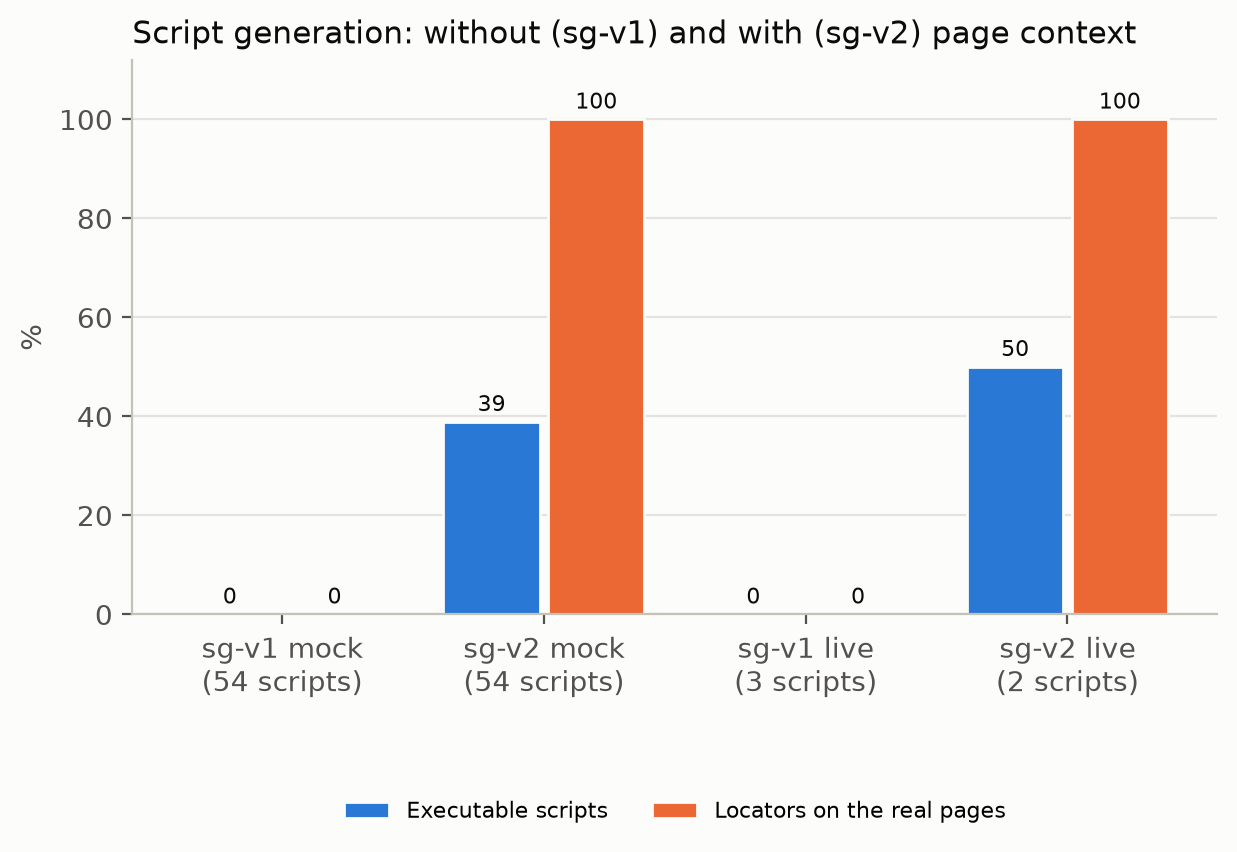
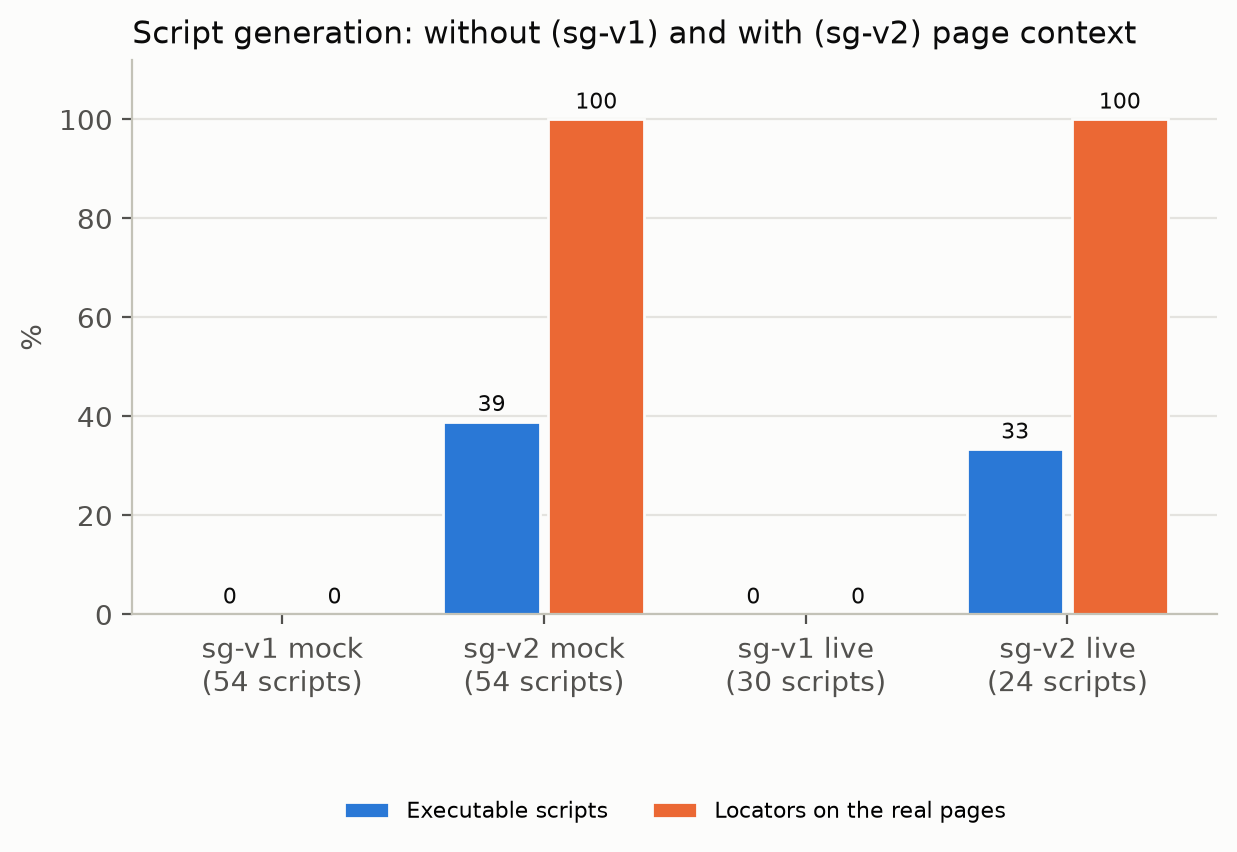
Live generation results with analyzer prompt ra-v2 (FR-12, FR-16, FR-39)

Changed region(s): [[0.768, 0.3967, 0.8601, 0.5493], [0.7987, 0.7629, 0.9216, 0.8239], [0.5837, 0.7934, 0.7065, 0.8239]]

diff --git a/src/aitaf/evaluation/results.py b/src/aitaf/evaluation/results.py
@@ -94,9 +94,10 @@ def build_markdown(
         "- The failure labels were written by the author after the corpus was built from the "
         "author's own recipes; the figure is agreement with that judgement, not accuracy on "
         "unseen applications.",
-        "- Live rows rest on very few scripts (the live model flagged 17 of the 18 requirements "
-        "that were written to be clear as ambiguous, so only 2 to 3 test cases were left to "
-        "script): they show that the pipeline works with a live model, not a rate.",
+        "- Live rows are one run each of one small model (gpt-4o-mini); with analyzer prompt "
+        "ra-v2 (tuned on the same 20 requirements) all 54 test cases reached the script step, "
+        "and the script generator rejected the plans it could not ground or re-ask. The rates "
+        "are for that run, not for models in general.",
         "- Rules v2 were changed after seeing the errors on the 50 development failures, so "
         "their score on those 50 is not independent; only the hold-out rows are.",
         "- Test cases were approved by the harness, not by a reviewer.",

diff --git a/evaluation/results/RESULTS.md b/evaluation/results/RESULTS.md
@@ -78,6 +78,44 @@ Configuration **rules v2, tuned on the same 50 labels (NOT independent)** (50 la
 
 Disagreements (label, analysed as, count): environment to test_data: 1; environment to unknown: 3; test_data to assertion_defect: 2
 
+Configuration **rules v1 on the hold-out set (independent)** (57 labelled failures)
+
+| Metric | Value | Basis |
+|---|---|---|
+| Classification accuracy | 75.4% (43/57) | failures whose category equals the author's label, over labelled failures |
+| Failures decided by the rules | 87.7% (50/57) | failures classified by a deterministic rule, over all failures |
+| Accuracy of the rule-decided failures | 76.0% (38/50) | rule-decided failures that match the label, over rule-decided failures |
+
+| Category | Labelled | Precision | Recall |
+|---|---|---|---|
+| locator | 12 | 75% | 100% |
+| assertion_defect | 13 | 65% | 100% |
+| timing_flaky | 7 | 100% | 57% |
+| environment | 11 | 100% | 73% |
+| test_data | 8 | 50% | 12% |
+| unknown | 6 | 71% | 83% |
+
+Disagreements (label, analysed as, count): environment to assertion_defect: 2; environment to unknown: 1; test_data to assertion_defect: 5; test_data to locator: 1; test_data to unknown: 1; timing_flaky to locator: 3; unknown to test_data: 1
+
+Configuration **rules v2 on the hold-out set (independent)** (57 labelled failures)
+
+| Metric | Value | Basis |
+|---|---|---|
+| Classification accuracy | 80.7% (46/57) | failures whose category equals the author's label, over labelled failures |
+| Failures decided by the rules | 87.7% (50/57) | failures classified by a deterministic rule, over all failures |
+| Accuracy of the rule-decided failures | 82.0% (41/50) | rule-decided failures that match the label, over rule-decided failures |
+
+| Category | Labelled | Precision | Recall |
+|---|---|---|---|
+| locator | 12 | 100% | 75% |
+| assertion_defect | 13 | 76% | 100% |
+| timing_flaky | 7 | 64% | 100% |
+| environment | 11 | 100% | 82% |
+| test_data | 8 | 75% | 38% |
+| unknown | 6 | 71% | 83% |
+
+Disagreements (label, analysed as, count): environment to assertion_defect: 1; environment to unknown: 1; locator to timing_flaky: 3; test_data to assertion_defect: 3; test_data to timing_flaky: 1; test_data to unknown: 1; unknown to test_data: 1
+
 ## Script generation (run in Chromium on the unmutated shop)
 
 **sg-v1 mock** (provider: mock, page context: no)
@@ -104,21 +142,21 @@ Disagreements (label, analysed as, count): environment to test_data: 1; environm
 
 | Metric | Value | Basis |
 |---|---|---|
-| Script executability | 0.0% (0/3) | scripts that ran their steps without a missing element or runtime error (passed, or failed on an assertion), over scripts generated |
-| Script pass rate | 0.0% (0/3) | generated scripts that passed on the unmutated shop, over scripts generated |
-| Locator validity | 0.0% (0/7) | primary locators that exist on the baseline pages, over generated locators |
-| Test cases turned into scripts | 100.0% (3/3) | scripts that passed static validation and grounding, over approved test cases |
-| API cost of the pipeline | $0.0037 | sum of token costs over all model calls (zero for the mock provider) |
+| Script executability | 0.0% (0/30) | scripts that ran their steps without a missing element or runtime error (passed, or failed on an assertion), over scripts generated |
+| Script pass rate | 0.0% (0/30) | generated scripts that passed on the unmutated shop, over scripts generated |
+| Locator validity | 0.0% (0/50) | primary locators that exist on the baseline pages, over generated locators |
+| Test cases turned into scripts | 55.6% (30/54) | scripts that passed static validation and grounding, over approved test cases |
+| API cost of the pipeline | $0.0312 | sum of token costs over all model calls (zero for the mock provider) |
 
 **sg-v2 live** (provider: live, page context: yes)
 
 | Metric | Value | Basis |
 |---|---|---|
-| Script executability | 50.0% (1/2) | scripts that ran their steps without a missing element or runtime error (passed, or failed on an assertion), over scripts generated |
-| Script pass rate | 50.0% (1/2) | generated scripts that passed on the unmutated shop, over scripts generated |
-| Locator validity | 100.0% (7/7) | primary locators that exist on the baseline pages, over generated locators |
-| Test cases turned into scripts | 66.7% (2/3) | scripts that passed static validation and grounding, over approved test cases |
-| API cost of the pipeline | $0.0024 | sum of token costs over all model calls (zero for the mock provider) |
+| Script executability | 33.3% (8/24) | scripts that ran their steps without a missing element or runtime error (passed, or failed on an assertion), over scripts generated |
+| Script pass rate | 25.0% (6/24) | generated scripts that passed on the unmutated shop, over scripts generated |
+| Locator validity | 100.0% (12/12) | primary locators that exist on the baseline pages, over generated locators |
+| Test cases turned into scripts | 44.4% (24/54) | scripts that passed static validation and grounding, over approved test cases |
+| API cost of the pipeline | $0.0338 | sum of token costs over all model calls (zero for the mock provider) |
 
 ## Non-LLM latency
 
@@ -131,7 +169,7 @@ Disagreements (label, analysed as, count): environment to test_data: 1; environm
 
 - The mock rows measure the pipeline and the rules, not a language model; live rows are labelled live.
 - The failure labels were written by the author after the corpus was built from the author's own recipes; the figure is agreement with that judgement, not accuracy on unseen applications.
-- Live rows rest on very few scripts (the live model flagged 17 of the 18 requirements that were written to be clear as ambiguous, so only 2 to 3 test cases were left to script): they show that the pipeline works with a live model, not a rate.
+- Live rows are one run each of one small model (gpt-4o-mini); with analyzer prompt ra-v2 (tuned on the same 20 requirements) all 54 test cases reached the script step, and the script generator rejected the plans it could not ground or re-ask. The rates are for that run, not for models in general.
 - Rules v2 were changed after seeing the errors on the 50 development failures, so their score on those 50 is not independent; only the hold-out rows are.
 - Test cases were approved by the harness, not by a reviewer.
 - One demo application and one live run per configuration: no confidence intervals.
